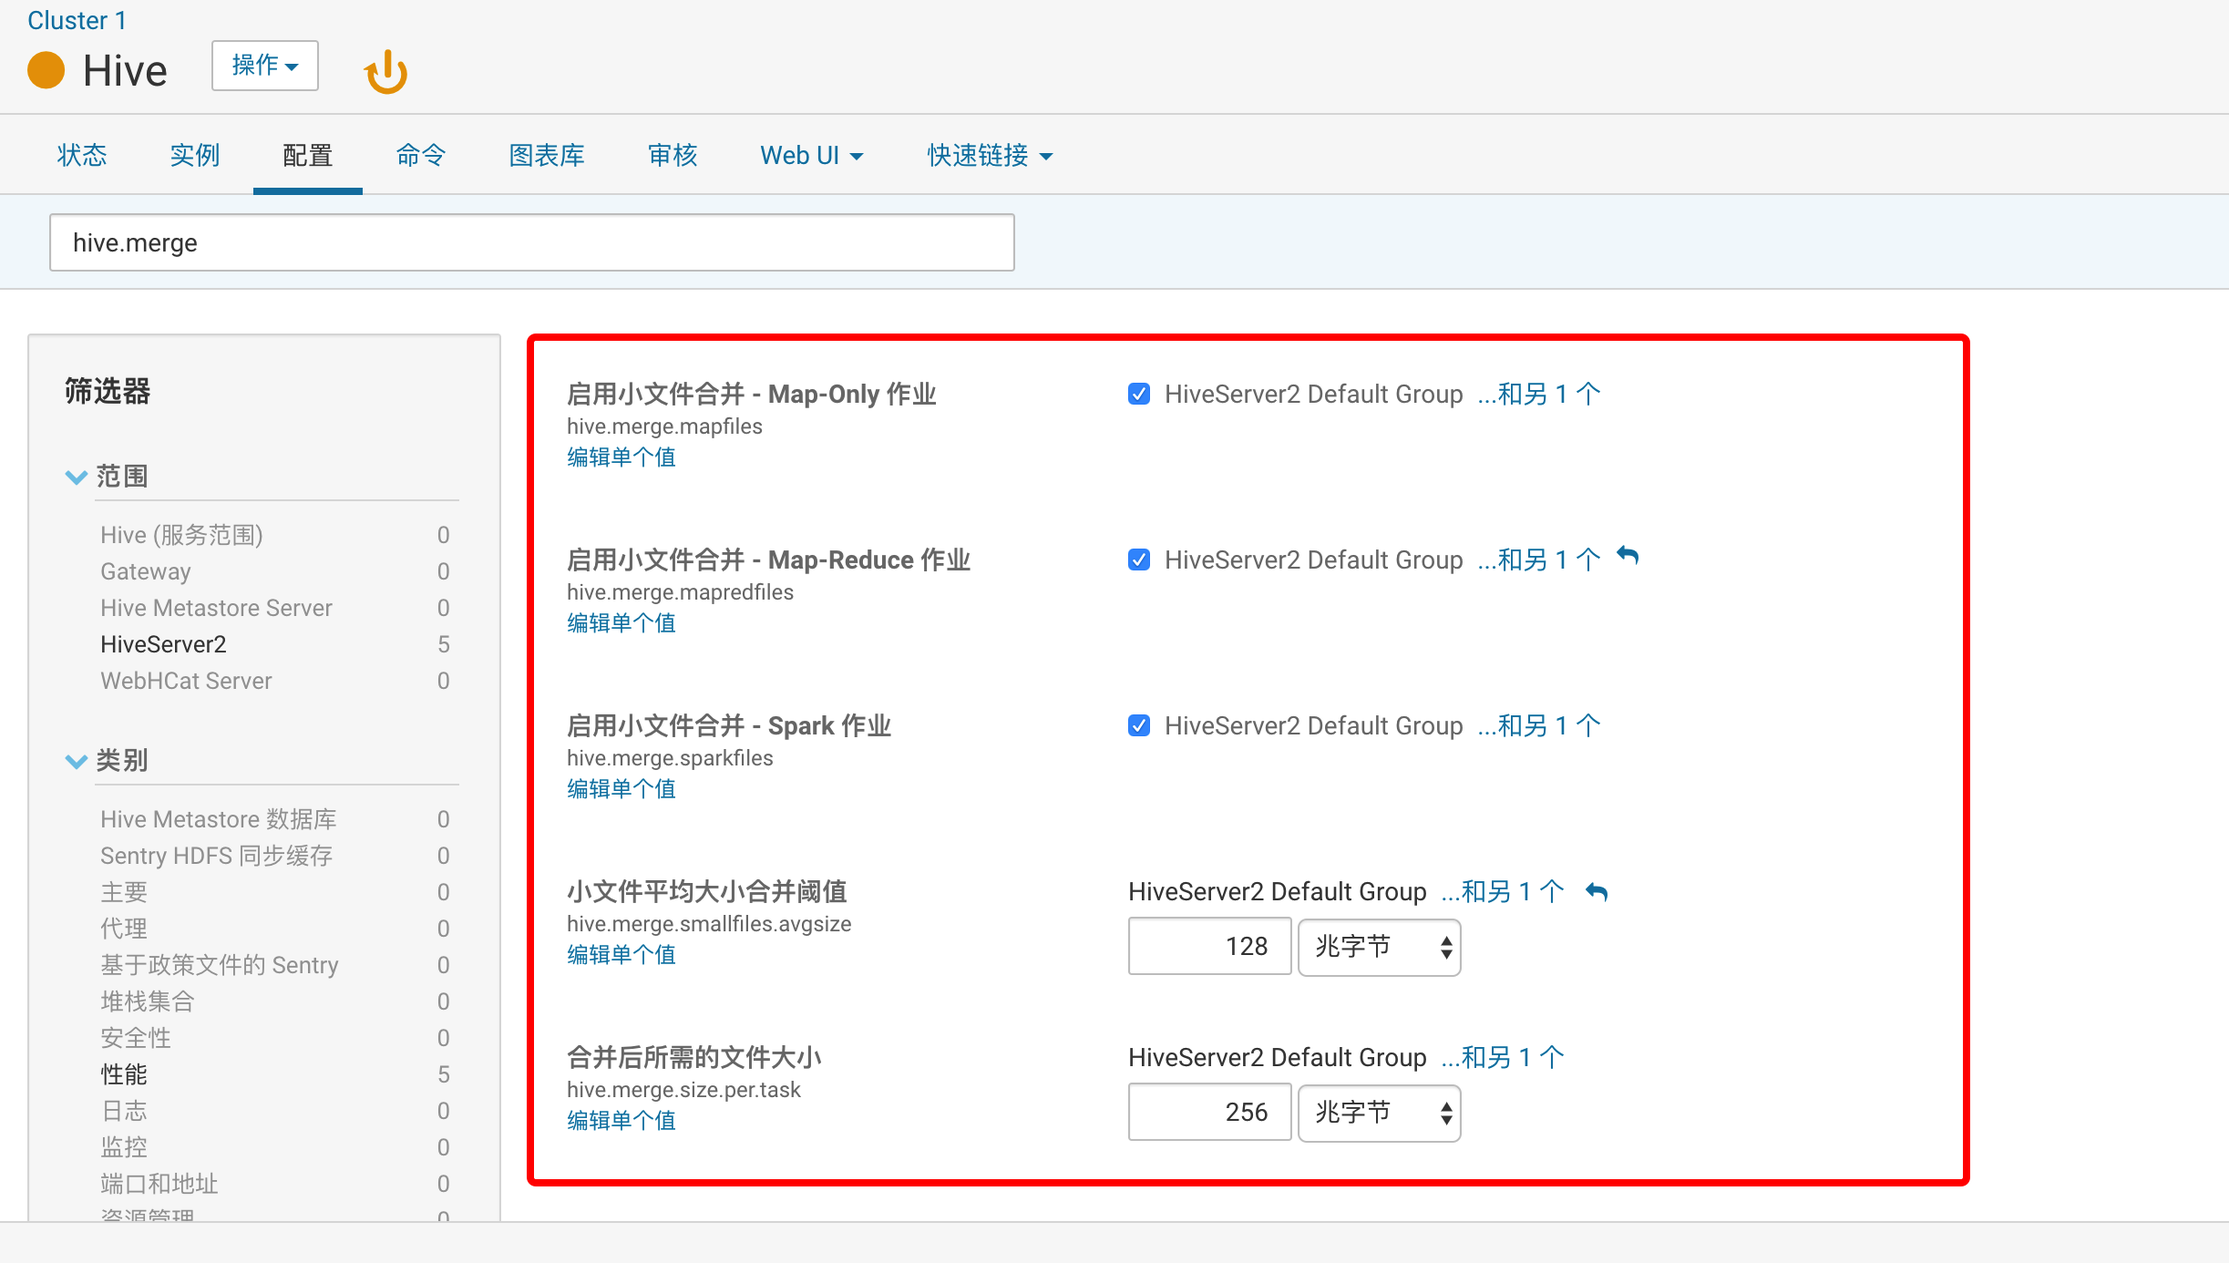
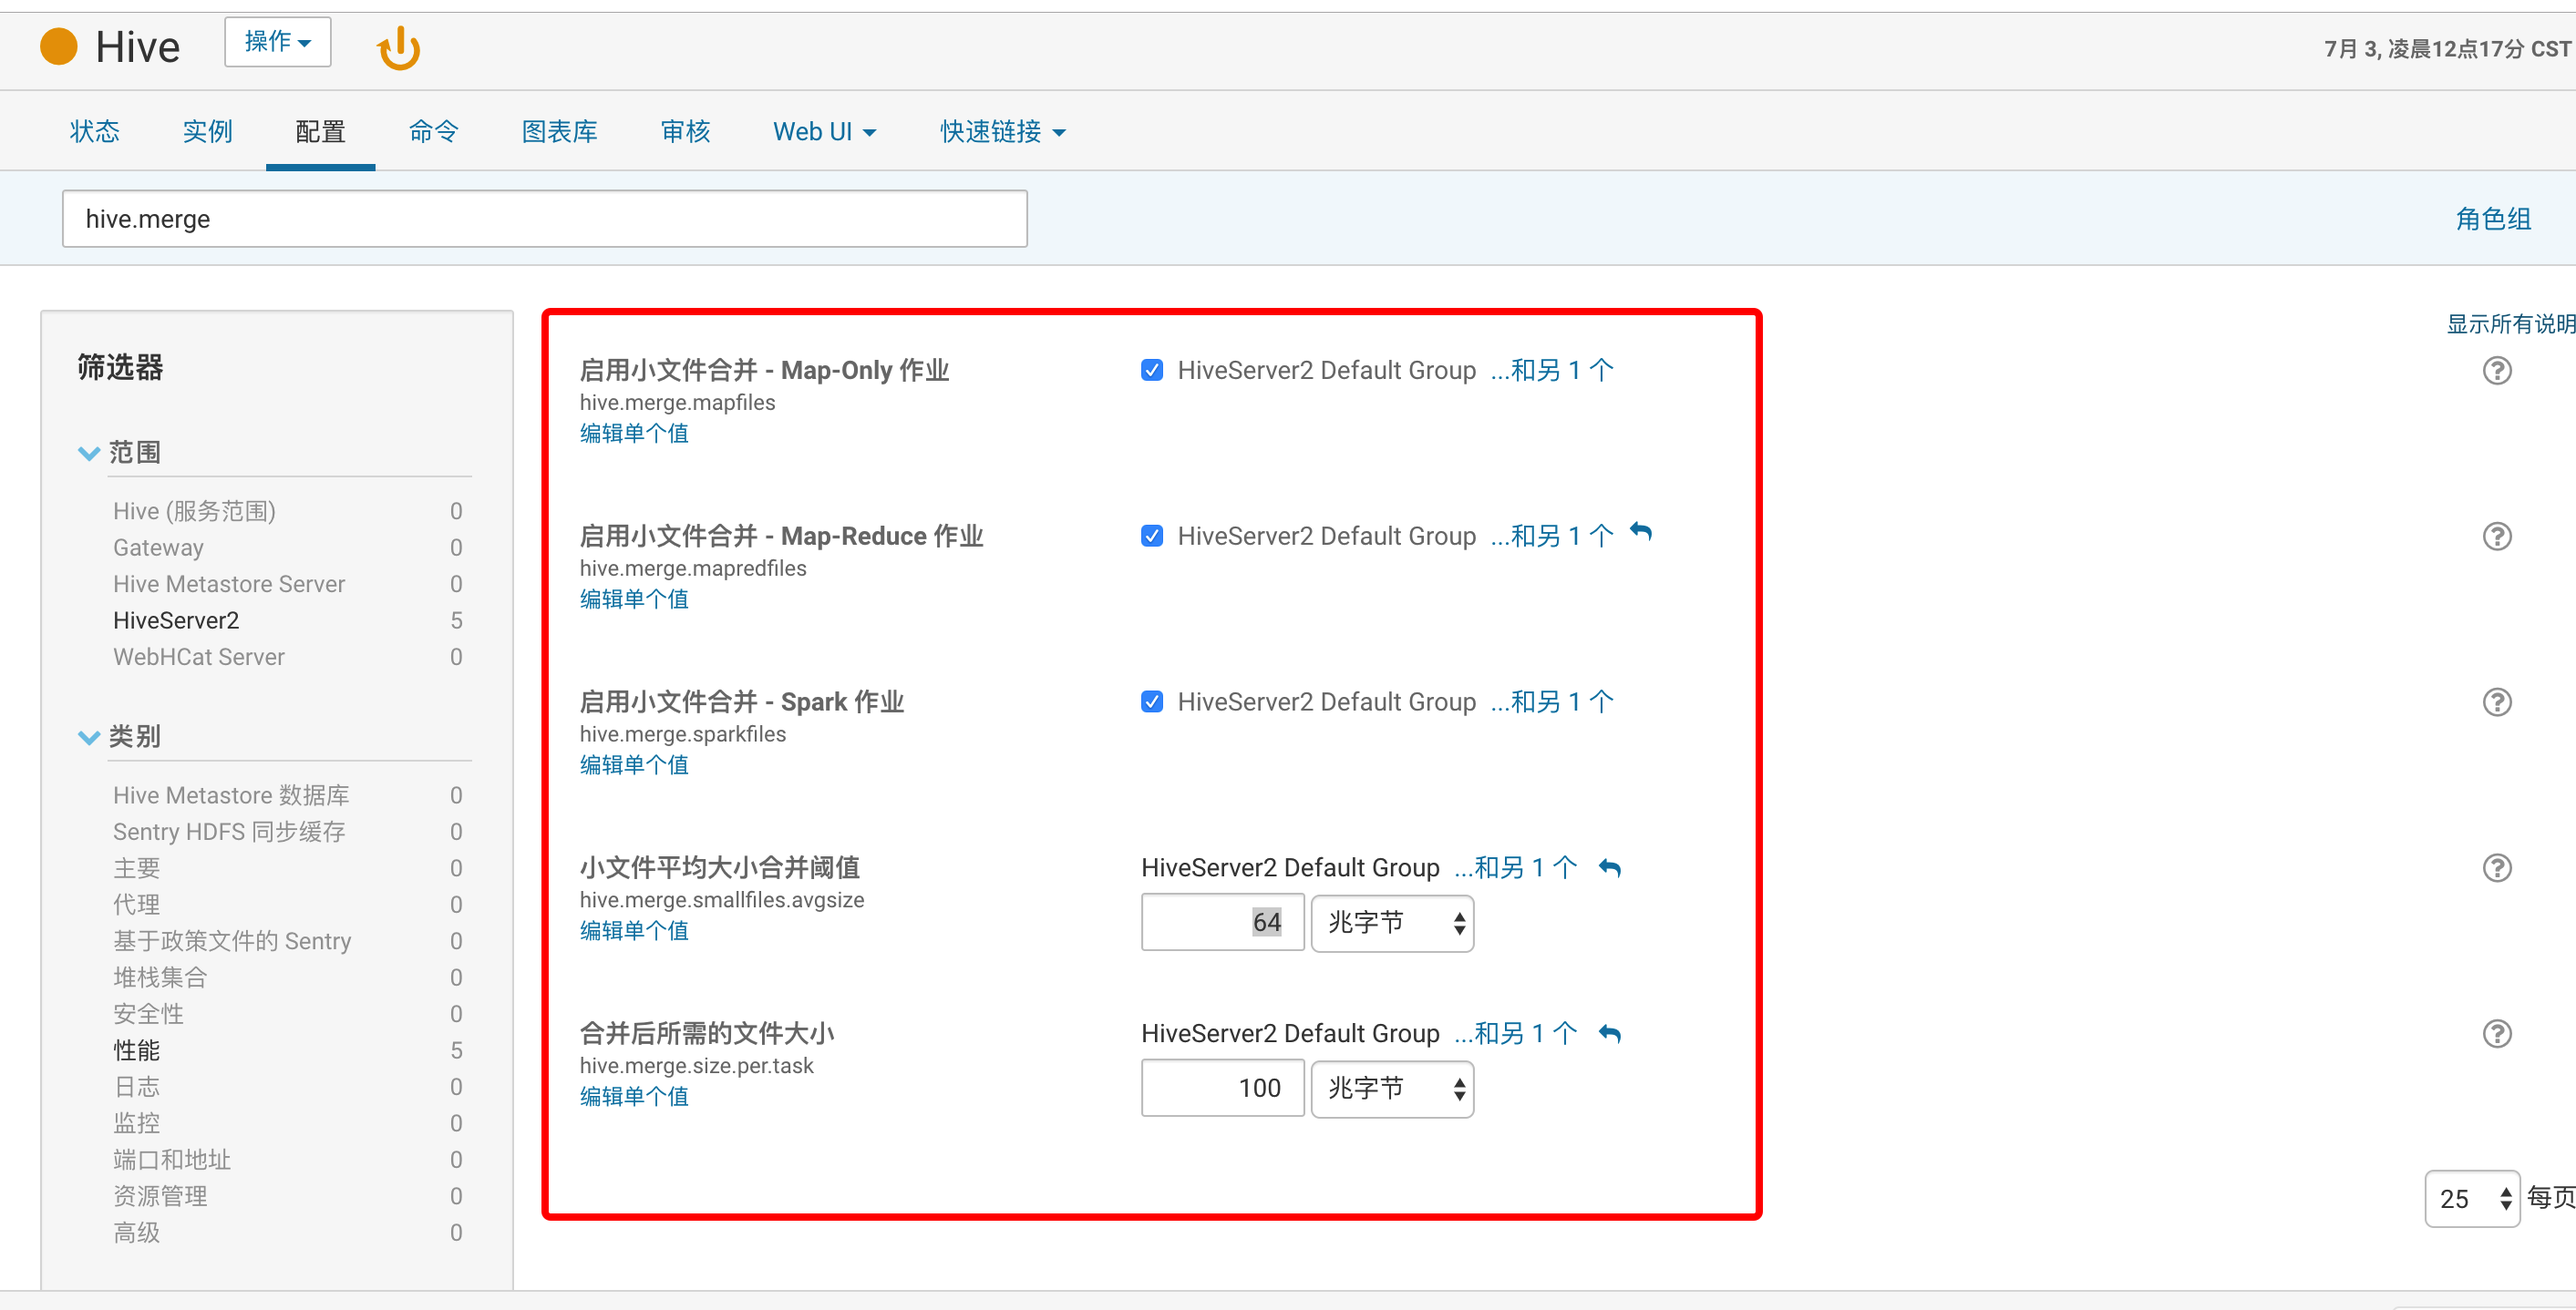
add hive on spark test

diff --git a/hive/hive_on_spark.md b/hive/hive_on_spark.md
@@ -10,7 +10,7 @@ cdh6.1.0
 
 #### 2.开启hive on spark功能
  
-* 集群中添加spark服务，为每台node manager添加spark gateway角色，如下图
+* 集群中添加spark服务，每台node manager添加spark gateway角色，如下图
 
 ![avatar](../images/spark_roles.png)
 
@@ -33,9 +33,7 @@ cdh6.1.0
 
 #### 3.功能测试
 
-
-
-* hive on mapreduce:
+**hive on mapreduce:** 
 
 * 测试语句：
 
@@ -48,7 +46,9 @@ SELECT count(1),ip from spark_merge_16mb GROUP BY ip;
 
 ![avatar](../images/hive_on_mr_test.png)
 
-* hive on spark:
+---------------------
+
+**hive on spark:**
 
 * 测试语句：
 
@@ -64,31 +64,31 @@ SELECT count(1),ip from spark_merge_16mb GROUP BY ip;
 
 #### 4.小文件合并功能
 
-这也是本人比较关注的一个点，产生太多小文件会影响hdfs性能
+> 这是本人比较关注的一个点，产生太多小文件会影响hdfs性能
 
-* hive中的小文件合并的配置，如下列表或者如下图
-
+**4.1 hive中的小文件合并的配置，如下列表或者如下图**
+	
 
 ```
 hive.merge.mapfiles --> 启用
 hive.merge.mapredfiles --> 启用
 hive.merge.sparkfiles  ---> 启用
-hive.merge.smallfiles.avgsize ---> 128Mb
-hive.merge.size.per.task   ---> 128Mb（一般设置为hdfs block size，决定hive on spark输出文件的大小）
+hive.merge.smallfiles.avgsize ---> 64Mb (仅作测试使用，生产环境请谨慎设置)
+hive.merge.size.per.task   ---> 100Mb (仅作测试使用，生产环境请谨慎设置)（一般设置为hdfs block size，决定hive on spark输出文件的大小）
 ```
 
 ![avatar](../images/hive_on_spark_small_merge_config.png)
 
 
-* 重启HiveServer2 & 部署hive客户端配置
+**4.2 重启HiveServer2 & 部署hive客户端配置**
 
 
-* 测试
+**4.3测试**
 
-源表def的数据大小如下图（大量小文件）：
+4.3.1 源表def的数据大小如下图（大量小文件）：
 ![avatar](../images/hive_on_spark_small_source_table.png)
 
-测试sql
+4.3.2 测试语句
 
 ```
 SET hive.execution.engine=spark; -- 使用spark计算引擎
@@ -109,14 +109,14 @@ SELECT rand() as id , * from def;
 
 ```
 
-执行计划如下图：
+4.3.3 执行计划如下图：
 可以看出，最后的一个stage是merge task
 ![avatar](../images/hive_on_spark_merge_stage.png)
 
-文件大小如下图：
+4.3.4 文件大小如下图：
 ![avatar](../images/hive_on_spark_merge_result.png)
 
-测试结果符合预期
+> 测试结果符合预期
 
 
 
